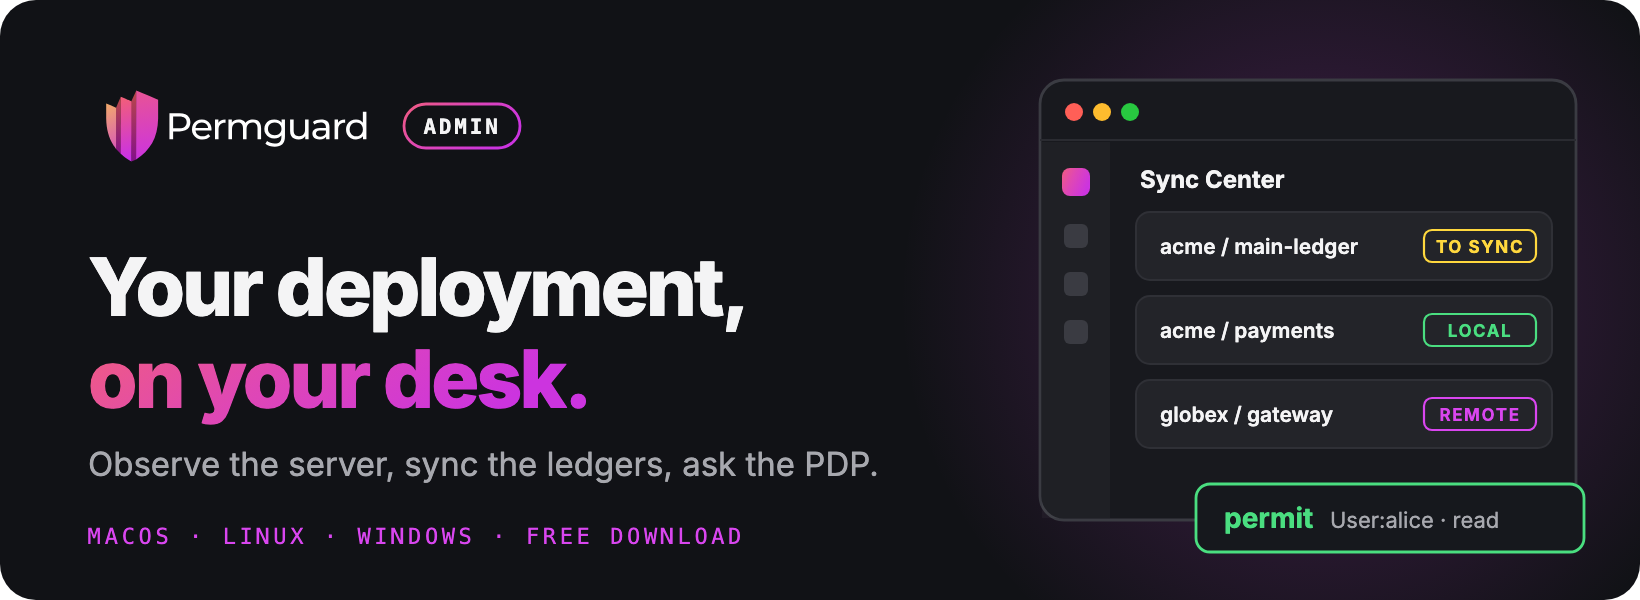
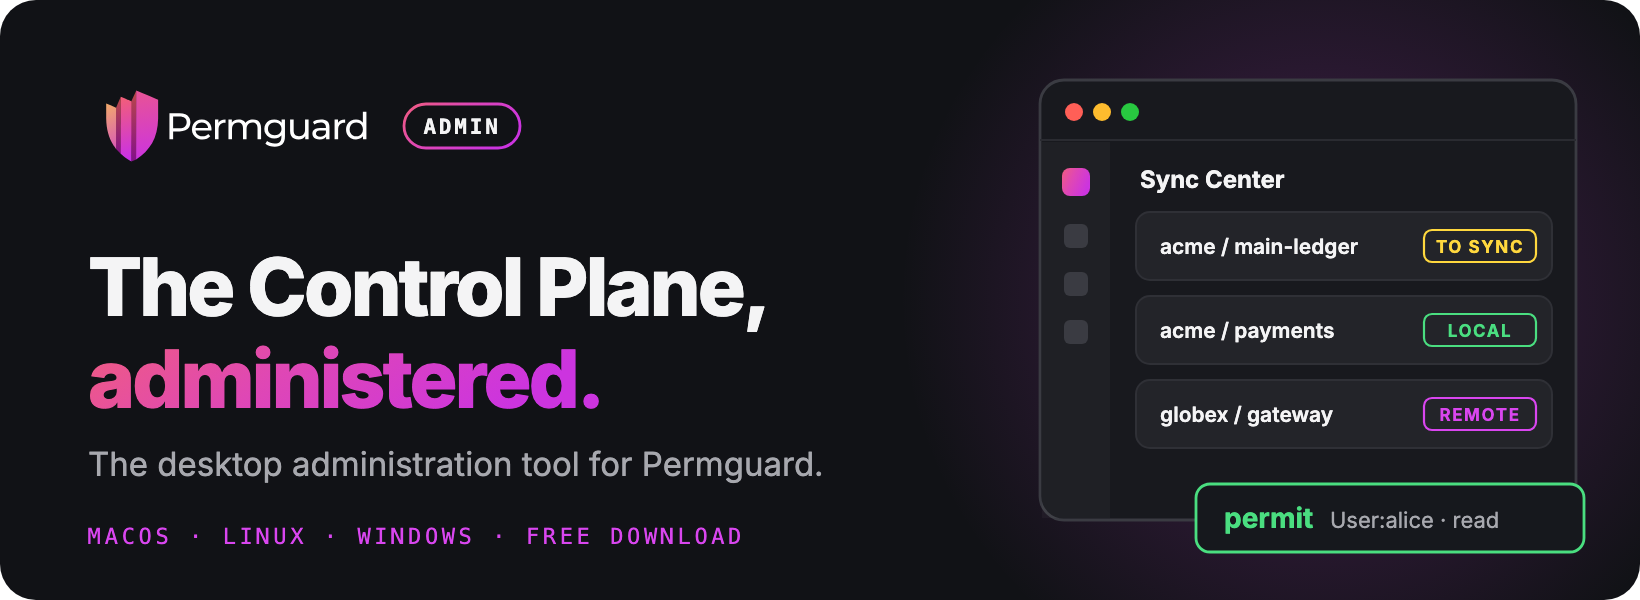
Updated the README file.

Changed region(s): [[0.0311, 0.42, 0.4665, 0.72], [0.0311, 0.75, 0.5287, 0.81]]

diff --git a/README.md b/README.md
@@ -6,7 +6,7 @@ SPDX-License-Identifier: LicenseRef-Permguard-Admin-Binary
 # Permguard Admin
 
 <p align="center">
-  <img src="assets/hero.png" alt="Permguard Admin. Your deployment, on your desk. Observe the server, sync the ledgers, ask the PDP. For macOS, Linux and Windows, free download." width="820">
+  <img src="assets/hero.png" alt="Permguard Admin. The Control Plane, administered. The desktop administration tool for Permguard. For macOS, Linux and Windows, free download." width="820">
 </p>
 
 <p align="center">
@@ -16,10 +16,10 @@ SPDX-License-Identifier: LicenseRef-Permguard-Admin-Binary
   <a href="https://github.com/permguard/permguard"><b>Permguard</b></a>
 </p>
 
-**Your Permguard deployment, on your desk.**
+**The desktop administration tool for the Permguard Control Plane.**
 
-Permguard Admin is the desktop application for the people who run [Permguard](https://github.com/permguard/permguard).
-Connect it to your servers and see, in one window, what they serve, which policies they hold and how they decide.
+Permguard Admin is for the people who administer [Permguard](https://github.com/permguard/permguard).
+Connect it to your Control Planes and manage them from one window: the server that hosts them, the ledgers and policies they serve, the decisions they record.
 No terminal, no curl, no guessing.
 
 <p align="center">
@@ -77,9 +77,9 @@ The answer comes back next to it, with the policies that decided it, how long it
   <img src="assets/screens/evaluation.png" alt="The Policy evaluation page: a request for User alice to read Document budget-2026, and the answer of the data plane: permit, by document-readers and gateway-access, in 41 ms." width="820">
 </p>
 
-### Connect to all your environments
+### Connect to all your Control Planes
 
-Add your local server, staging and production side by side, over HTTP or gRPC, with TLS, mutual TLS and bearer tokens.
+Add your local Control Plane, staging and production side by side, over HTTP or gRPC, with TLS, mutual TLS and bearer tokens.
 Switch between them from the top bar; a dot tells you at a glance which ones are online.
 
 <p align="center">
